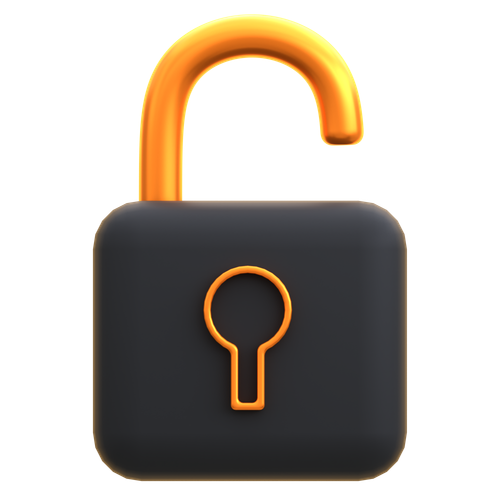
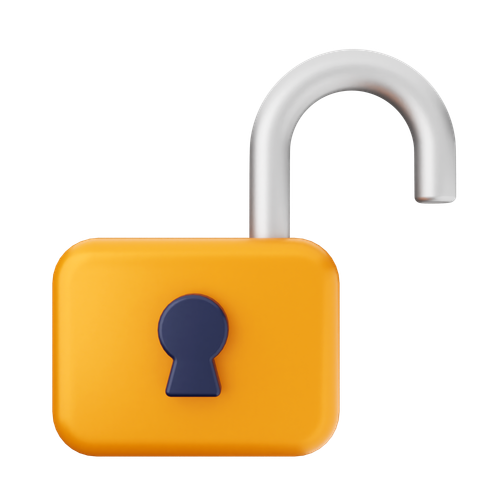
cambios en dashboard / Clientes / Area de trabajo

diff --git a/resources/views/livewire/dashboard.blade.php b/resources/views/livewire/dashboard.blade.php
@@ -4,8 +4,6 @@
         <div class="grid grid-cols-1 md:grid-cols-3 lg:grid-cols-3 gap-2 mb-2 px-3">
 
             <div onclick="Livewire.dispatch('openModal', { component: 'tasa-bcv' })" class="cursor-pointer px-6 rounded-lg shadow-[0px_0px_0px_1px_rgba(0,0,0,0.06),0px_1px_1px_-0.5px_rgba(0,0,0,0.06),0px_3px_3px_-1.5px_rgba(0,0,0,0.06),_0px_6px_6px_-3px_rgba(0,0,0,0.06),0px_12px_12px_-6px_rgba(0,0,0,0.06),0px_24px_24px_-12px_rgba(0,0,0,0.06)]" style="background-image: url('images/4.png'); background-size: 100% 100%;">
-
-
                 <div class="flex items-center">
                     <img class="w-20 h-auto p-2 rounded-full" src="{{ asset('images/BCV.png') }}" alt="">
                     <div class="ml-2 text-right">
@@ -26,14 +24,13 @@
                         <path fill-rule="evenodd" d="M8.25 6.75a3.75 3.75 0 1 1 7.5 0 3.75 3.75 0 0 1-7.5 0ZM15.75 9.75a3 3 0 1 1 6 0 3 3 0 0 1-6 0ZM2.25 9.75a3 3 0 1 1 6 0 3 3 0 0 1-6 0ZM6.31 15.117A6.745 6.745 0 0 1 12 12a6.745 6.745 0 0 1 6.709 7.498.75.75 0 0 1-.372.568A12.696 12.696 0 0 1 12 21.75c-2.305 0-4.47-.612-6.337-1.684a.75.75 0 0 1-.372-.568 6.787 6.787 0 0 1 1.019-4.38Z" clip-rule="evenodd" />
                         <path d="M5.082 14.254a8.287 8.287 0 0 0-1.308 5.135 9.687 9.687 0 0 1-1.764-.44l-.115-.04a.563.563 0 0 1-.373-.487l-.01-.121a3.75 3.75 0 0 1 3.57-4.047ZM20.226 19.389a8.287 8.287 0 0 0-1.308-5.135 3.75 3.75 0 0 1 3.57 4.047l-.01.121a.563.563 0 0 1-.373.486l-.115.04c-.567.2-1.156.349-1.764.441Z" />
                     </svg>
-
                 </div>
                 <div class="ml-12 text-right">
                     <div class="mt-2 text-xl text-black leading-7 font-bold">
                         CLIENTES
                     </div>
                     <div class="sm:hidden md:hidden lg:block text-right text-sm font-semibold text-black">
-                        <div>Registro y gestion de clientes</div>
+                        <div>Registro y gestión de clientes</div>
                     </div>
                 </div>
             </div>
@@ -43,7 +40,6 @@
                     <svg xmlns="http://www.w3.org/2000/svg" viewBox="0 0 24 24" fill="currentColor" class="w-16">
                         <path fill-rule="evenodd" d="M3 6a3 3 0 0 1 3-3h2.25a3 3 0 0 1 3 3v2.25a3 3 0 0 1-3 3H6a3 3 0 0 1-3-3V6Zm9.75 0a3 3 0 0 1 3-3H18a3 3 0 0 1 3 3v2.25a3 3 0 0 1-3 3h-2.25a3 3 0 0 1-3-3V6ZM3 15.75a3 3 0 0 1 3-3h2.25a3 3 0 0 1 3 3V18a3 3 0 0 1-3 3H6a3 3 0 0 1-3-3v-2.25Zm9.75 0a3 3 0 0 1 3-3H18a3 3 0 0 1 3 3V18a3 3 0 0 1-3 3h-2.25a3 3 0 0 1-3-3v-2.25Z" clip-rule="evenodd" />
                     </svg>
-
                 </div>
                 <div class="ml-12 text-right">
                     <div class="mt-2 text-xl text-black leading-7 font-bold">
@@ -62,7 +58,6 @@
                         <path d="M12.75 12.75a.75.75 0 1 1-1.5 0 .75.75 0 0 1 1.5 0ZM7.5 15.75a.75.75 0 1 0 0-1.5.75.75 0 0 0 0 1.5ZM8.25 17.25a.75.75 0 1 1-1.5 0 .75.75 0 0 1 1.5 0ZM9.75 15.75a.75.75 0 1 0 0-1.5.75.75 0 0 0 0 1.5ZM10.5 17.25a.75.75 0 1 1-1.5 0 .75.75 0 0 1 1.5 0ZM12 15.75a.75.75 0 1 0 0-1.5.75.75 0 0 0 0 1.5ZM12.75 17.25a.75.75 0 1 1-1.5 0 .75.75 0 0 1 1.5 0ZM14.25 15.75a.75.75 0 1 0 0-1.5.75.75 0 0 0 0 1.5ZM15 17.25a.75.75 0 1 1-1.5 0 .75.75 0 0 1 1.5 0ZM16.5 15.75a.75.75 0 1 0 0-1.5.75.75 0 0 0 0 1.5ZM15 12.75a.75.75 0 1 1-1.5 0 .75.75 0 0 1 1.5 0ZM16.5 13.5a.75.75 0 1 0 0-1.5.75.75 0 0 0 0 1.5Z" />
                         <path fill-rule="evenodd" d="M6.75 2.25A.75.75 0 0 1 7.5 3v1.5h9V3A.75.75 0 0 1 18 3v1.5h.75a3 3 0 0 1 3 3v11.25a3 3 0 0 1-3 3H5.25a3 3 0 0 1-3-3V7.5a3 3 0 0 1 3-3H6V3a.75.75 0 0 1 .75-.75Zm13.5 9a1.5 1.5 0 0 0-1.5-1.5H5.25a1.5 1.5 0 0 0-1.5 1.5v7.5a1.5 1.5 0 0 0 1.5 1.5h13.5a1.5 1.5 0 0 0 1.5-1.5v-7.5Z" clip-rule="evenodd" />
                     </svg>
-
                 </div>
                 <div class="ml-12 text-right">
                     <div class="mt-2 text-xl text-black leading-7 font-bold">
@@ -89,10 +84,10 @@
                 </div>
                 <div class="ml-12 text-right">
                     <div class="mt-2 text-xl text-black text- leading-7 font-bold">
-                        RECEPCION DE INVENTARIO
+                        RECEPCIÓN DE INVENTARIO
                     </div>
                     <div class="sm:hidden md:hidden lg:block text-right text-sm font-semibold text-black">
-                        <div>Gestion de inventario</div>
+                        <div>Gestión de inventario</div>
                     </div>
                 </div>
             </a>
@@ -110,7 +105,7 @@
                         INVENTARIO GENERAL
                     </div>
                     <div class="sm:hidden md:hidden lg:block text-right text-sm font-semibold text-black">
-                        <div>Gestion de inventario</div>
+                        <div>Gestión de inventario</div>
                     </div>
                 </div>
             </a>
@@ -127,7 +122,7 @@
                         PRODUCTOS
                     </div>
                     <div class="sm:hidden md:hidden lg:block text-right text-sm font-semibold text-black">
-                        <div>Carga y gestion de productos</div>
+                        <div>Carga y gestión de productos</div>
                     </div>
                 </div>
             </a>
@@ -181,7 +176,7 @@
                         VENTAS
                     </div>
                     <div class="sm:hidden md:hidden lg:block text-right text-sm font-semibold text-black">
-                        <div>Modulos de ventas</div>
+                        <div>Módulos de ventas</div>
                     </div>
                 </div>
             </div>
@@ -202,8 +197,8 @@
                         <img class="w-16 h-16 m-2 rounded-full" src="{{ asset('images/BCV.png') }}" alt="">
                     </div>
                     <div class="ml-12 text-right">
-                        <div class="sm:hidden md:hidden lg:block mt-2 text-4xl text-black text- leading-7 font-bold">
-                            Tasa BCV
+                        <div class="sm:hidden md:hidden lg:block mt-2 text-xl text-black text- leading-7 font-bold">
+                            TASA BCV
                         </div>
                         <div class="sm:hidden md:hidden lg:block text-right text-sm font-semibold text-black">
                             <div>{{ $tasa->tasa }}Bs.</div>
@@ -222,11 +217,11 @@
                 </div>
 
                 <div class="ml-12 text-right">
-                    <div class="sm:hidden md:hidden lg:block mt-2 text-4xl text-black text- leading-7 font-bold">
-                        Nomina
+                    <div class="sm:hidden md:hidden lg:block mt-2 text-xl text-black text- leading-7 font-bold">
+                        NÓMINA
                     </div>
-                    <div class=" text-right text-xs font-semibold text-black">
-                        <div>Modulo para el calculo de nomina</div>
+                    <div class="sm:hidden md:hidden lg:block text-right text-sm font-semibold text-black">
+                        <div>Módulo para el cálculo de nómina</div>
                     </div>
                 </div>
             </div>
@@ -240,11 +235,11 @@
                 </div>
 
                 <div class="ml-12 text-right">
-                    <div class="sm:hidden md:hidden lg:block mt-2 text-4xl text-black text- leading-7 font-bold">
-                        Reportes
+                    <div class="sm:hidden md:hidden lg:block mt-2 text-xl text-black text- leading-7 font-bold">
+                        REPORTES
                     </div>
-                    <div class=" text-right text-xs font-semibold text-black">
-                        <div>Modulo para gestion de reportes</div>
+                    <div class="sm:hidden md:hidden lg:block text-right text-sm font-semibold text-black">
+                        <div>Módulo para gestión de reportes</div>
                     </div>
                 </div>
             </div>

diff --git a/app/Livewire/TableCliente.php b/app/Livewire/TableCliente.php
@@ -39,19 +39,22 @@ class TableCliente extends Component implements HasForms, HasTable
     {
         return $table
             ->heading('CLIENTES')
-            ->description('Tabla de gestion de clientes')
+            ->description('Tabla de gestión de clientes')
             ->query(Cliente::query()->orderBy('created_at', 'desc'))
             ->columns([
                     TextInputColumn::make('nombre')
+                        ->label('Nombre')
                         ->grow(false)
                         ->searchable(),
                     TextInputColumn::make('cedula')
+                        ->label('Cédula')
                         ->rules(['numeric'])
                         ->searchable(),
                     TextInputColumn::make('email')
                         ->rules(['email'])
                         ->searchable(),
                     TextInputColumn::make('telefono')
+                        ->label('Teléfono')
                         ->rules(['numeric'])
                         ->searchable(),
             ])
@@ -95,7 +98,7 @@ class TableCliente extends Component implements HasForms, HasTable
                         ->title('NOTIFICACIÓN')
                         ->icon('heroicon-s-exclamation-triangle')
                         ->iconColor('danger')
-                        ->body('El tecnico ya posee un servicio abierto. Por favor realiza la facturación y vuelve a intentar!')
+                        ->body('El técnico ya posee un servicio abierto. Por favor realiza la facturación y vuelve a intentar!')
                         ->send();
 
                     }
@@ -141,7 +144,7 @@ class TableCliente extends Component implements HasForms, HasTable
                                             ->rules(['required','numeric','unique:clientes,cedula'])
                                             ->validationMessages([
                                                 'required'  => 'Campo requerido',
-                                                'numeric'    => 'Solo admite números',
+                                                'numeric'   => 'Solo admite números',
                                                 'unique'    => 'El número de cédula esta duplicado',
                                             ]),
 
@@ -163,11 +166,11 @@ class TableCliente extends Component implements HasForms, HasTable
                                             ->mask(RawJs::make(<<<'JS'
                                                 $input.startsWith('1') ? '19999999999' : '9999-9999999'
                                             JS))
-                                            ->unique(column: 'telefono')   
+                                            ->unique(column: 'telefono')
                                             ->rules(['required'])
                                             ->validationMessages([
-                                                'required'    => 'Campo requerido',
-                                                'unique'    => 'El número de teléfono esta duplicado', 
+                                                'required'  => 'Campo requerido',
+                                                'unique'    => 'El número de teléfono esta duplicado',
                                             ]),
 
                                     ]),

diff --git a/resources/views/livewire/cabinas.blade.php b/resources/views/livewire/cabinas.blade.php
@@ -3,10 +3,10 @@
     @livewire('notifications')
     <div class="grid grid-cols-1 md:grid-cols-2 lg:grid-cols-2 xl:grid-cols-2 mb-4 mt-4 gap-4">
         @foreach ($data as $item)
-            <div id="accordion-collapse" data-accordion="collapse" class="w-full">
+            <div id="accordion-collapse" data-accordion="collapse" class="w-full" data-active-classes="bg-gray-4 00">
                 <h2 id="accordion-collapse-heading-{{ $item->id }}">
-                    <button  type="button" class="flex justify-start items-center w-full p-5 {{ $item->status == 'activo' ? 'text-white' : 'text-black' }} font-extrabold rounded-xl {{ $item->status == 'activo' ? 'bg-green-700' : 'bg-yellow-300' }} gap-3" data-accordion-target="#accordion-collapse-body-{{ $item->id }}" aria-expanded="false" aria-controls="accordion-collapse-body-{{ $item->id }}">
-                        <img class="w-20 h-auto rounded-full ml-4" src="{{ $item->status == 'activo' ? asset('images/abierto.png') : asset('images/cerrado2.png') }}" alt="">
+                    <button type="button" class="flex justify-start items-center w-full p-5 {{ $item->status == 'activo' ? 'text-white' : 'text-black' }} font-extrabold rounded-xl {{ $item->status == 'activo' ? 'bg-[#BF9C8F]' : 'bg-[#7B9AA6]' }} gap-3" data-accordion-target="#accordion-collapse-body-{{ $item->id }}" aria-expanded="false" aria-controls="accordion-collapse-body-{{ $item->id }}">
+                        <img class="w-20 h-auto rounded-full ml-4" src="{{ $item->status == 'activo' ? asset('images/abierto.png') : asset('images/cerrado.png') }}" alt="">
                         <div class="flex flex-col items-start">
                             <span class="text-sm">Cliente: {{ $item->cliente->nombre }}</span>
                             <span class="text-sm">Técnico: {{ $item->empleado->name }}</span>
@@ -17,7 +17,7 @@
                 <div id="accordion-collapse-body-{{ $item->id }}" class="hidden" aria-labelledby="accordion-collapse-heading-1">
                     <div class="border rounded-lg mb-5 mt-5 ">
                         {{-- <p class="p-4 text-3xl font-bold text-[#bc9c95]">Venta de Productos</p> --}}
-                        @livewire('table-detalle-asignacion', 
+                        @livewire('table-detalle-asignacion',
                         [
                             'cod_asignacion' => $item->cod_asignacion,
                             'cliente_id'     => $item->cliente_id
